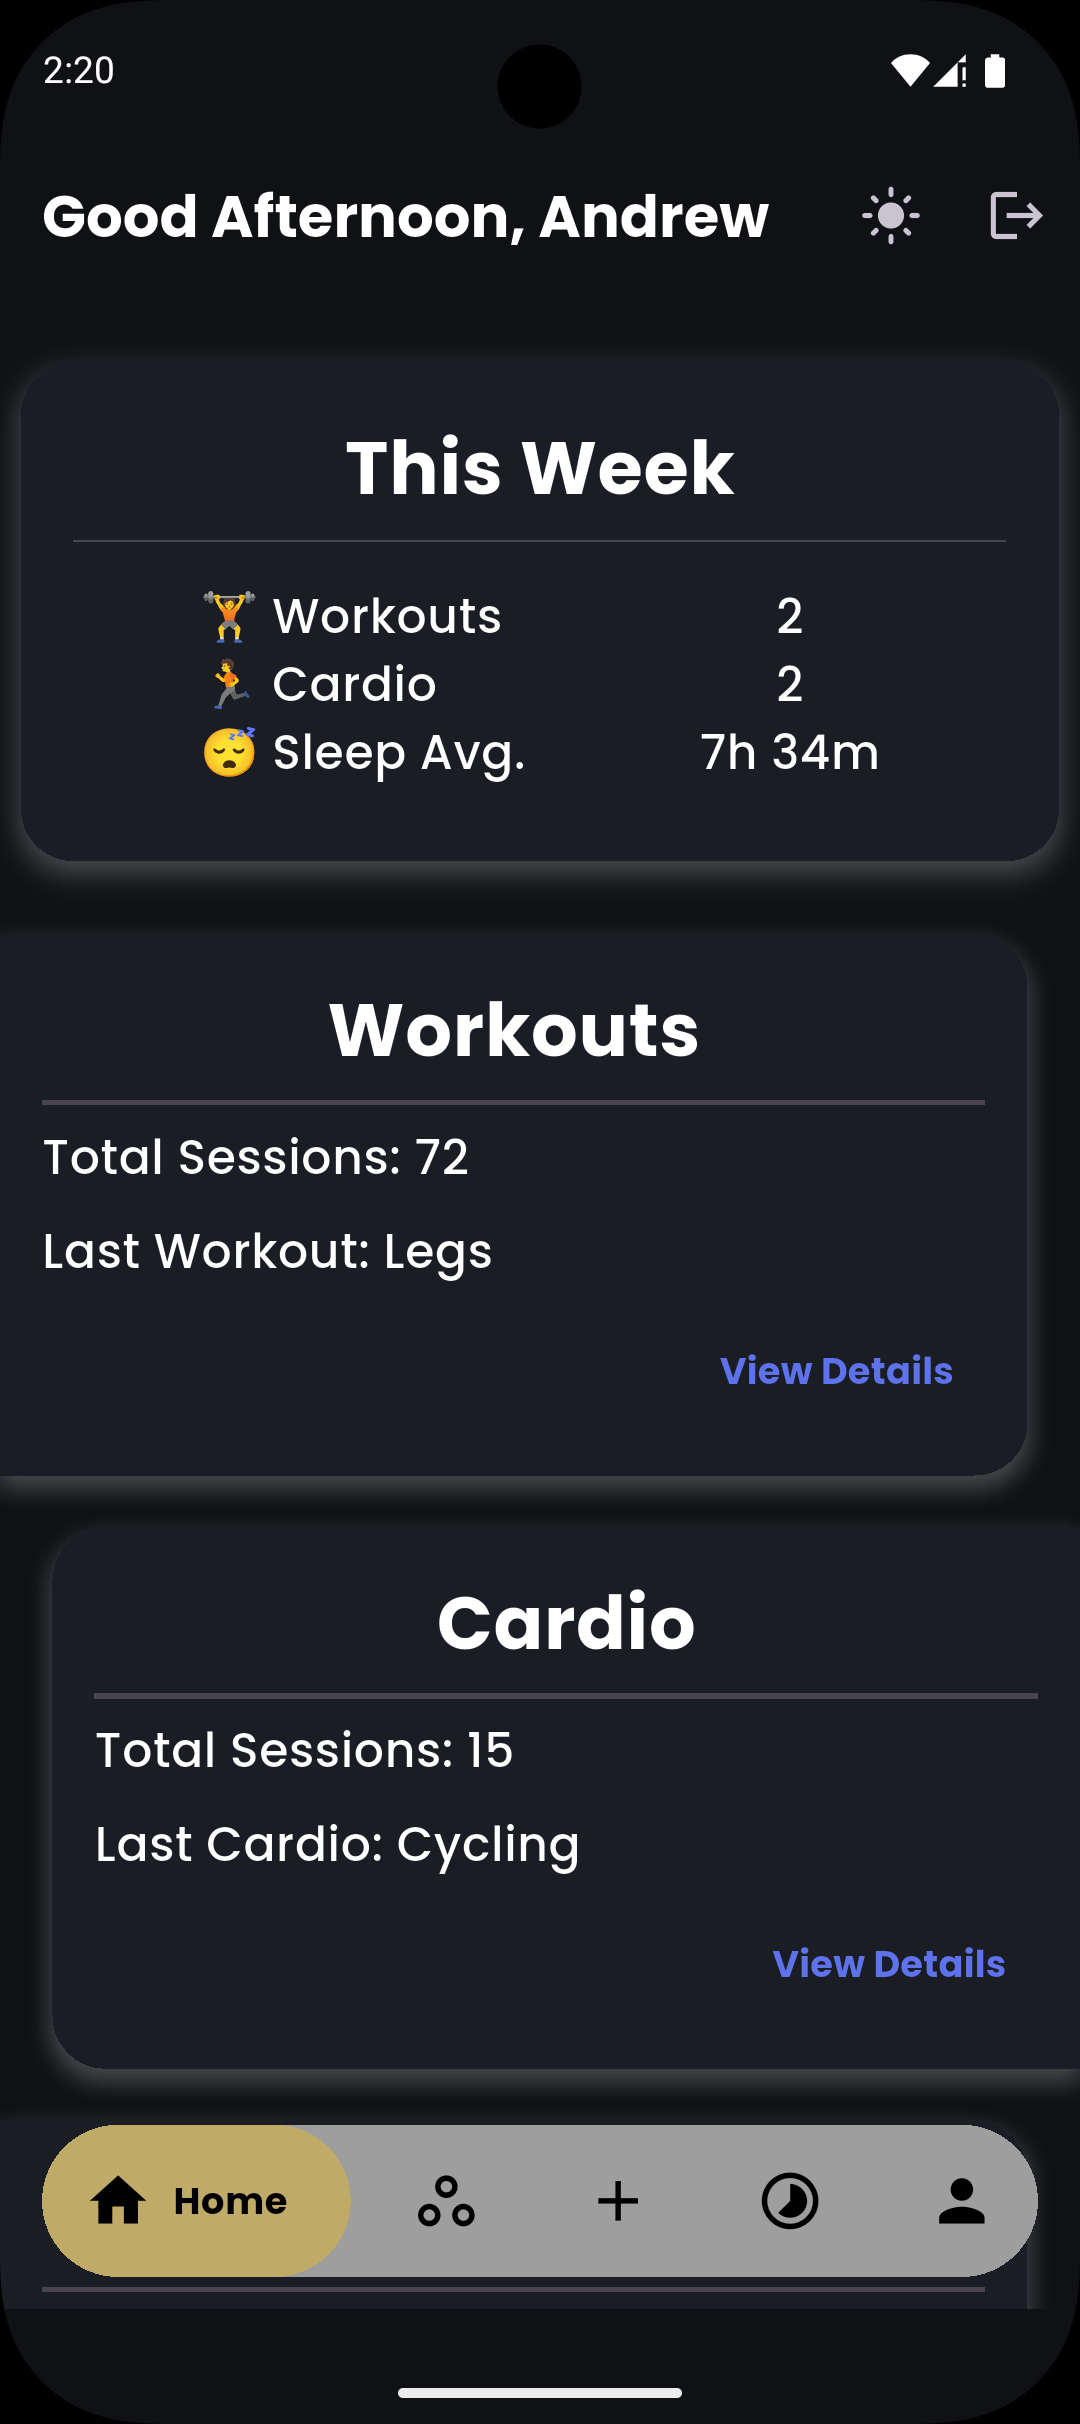
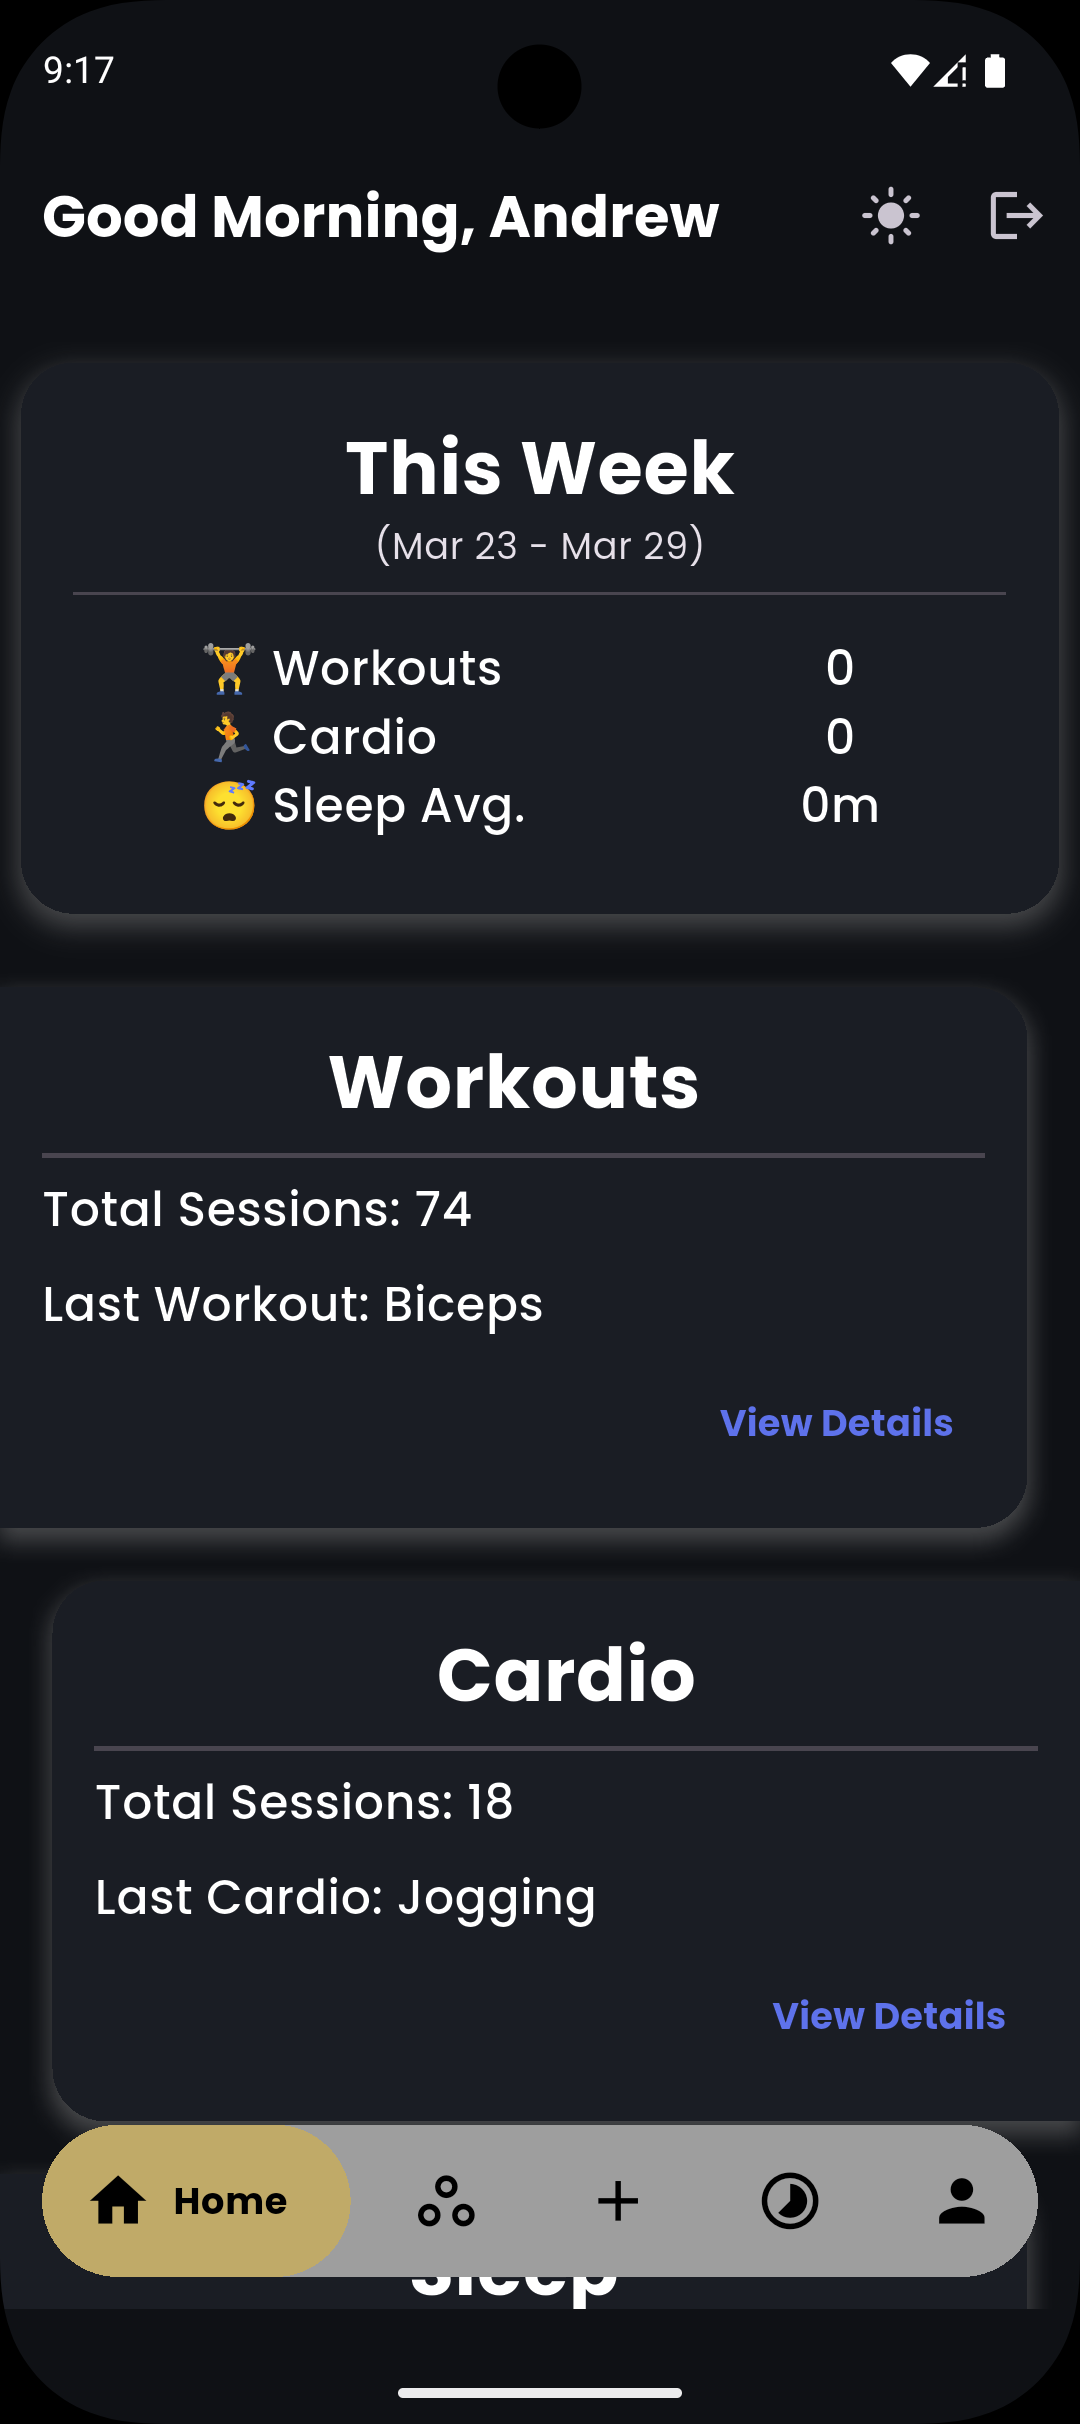
added week range in home page

diff --git a/lib/views/pages/home_page.dart b/lib/views/pages/home_page.dart
@@ -1,5 +1,5 @@
-import 'package:firebase_auth/firebase_auth.dart';
 import 'package:flutter/material.dart';
+import 'package:gympanion/extensions/date_time_extension.dart';
 import 'package:gympanion/extensions/duration_extension.dart';
 import 'package:gympanion/views/data/constants.dart';
 import 'package:gympanion/views/data/sleep_manager.dart';
@@ -37,6 +37,7 @@ class HomePage extends StatelessWidget {
                           style: AppTextStyles.displayMedium,
                         ),
                       ),
+                      Text(DateTime.now().getCurrentWeekRange()),
                       Divider(),
                       Padding(
                         padding: const EdgeInsets.symmetric(

diff --git a/lib/views/pages/app_navigator.dart b/lib/views/pages/app_navigator.dart
@@ -52,8 +52,7 @@ class _AppNavigatorState extends State<AppNavigator> {
                   isMorning
                       ? 'Good Morning, ${snapshot.data?.displayName ?? ''}'
                       : isAfternoon
-                          // ? 'Good Afternoon, ${snapshot.data?.displayName ?? ''}'
-                          ? 'Good Afternoon, Andrew'
+                          ? 'Good Afternoon, ${snapshot.data?.displayName ?? ''}'
                           : 'Good Evening, ${snapshot.data?.displayName ?? ''}',
                   style: AppTextStyles.titleLarge,
                 );

diff --git a/lib/views/pages/profile_page.dart b/lib/views/pages/profile_page.dart
@@ -22,8 +22,7 @@ class ProfilePage extends StatelessWidget {
               ),
               SizedBox(height: 16),
               Text(
-                'Andrew',
-                // FirebaseAuth.instance.currentUser?.displayName ?? 'Username',
+                FirebaseAuth.instance.currentUser?.displayName ?? 'Username',
                 style: TextStyle(
                   fontSize: 18,
                   color: Colors.white70,

diff --git a/lib/extensions/date_time_extension.dart b/lib/extensions/date_time_extension.dart
@@ -1,0 +1,11 @@
+import 'package:intl/intl.dart';
+
+extension DateTimeExtension on DateTime {
+  String getCurrentWeekRange() {
+    final startOfWeek = subtract(Duration(days: weekday - 1));
+    final endOfWeek = add(Duration(days: DateTime.daysPerWeek - weekday));
+
+    DateFormat dateFormat = DateFormat.MMMd();
+    return '(${dateFormat.format(startOfWeek)} - ${dateFormat.format(endOfWeek)})';
+  }
+}

diff --git a/lib/views/pages/sleep_page.dart b/lib/views/pages/sleep_page.dart
@@ -11,7 +11,7 @@ import 'package:gympanion/views/widgets/wide_button.dart';
 import 'package:provider/provider.dart';
 
 class SleepPage extends StatelessWidget {
-  SleepPage({super.key});
+  const SleepPage({super.key});
 
   @override
   Widget build(BuildContext context) {
